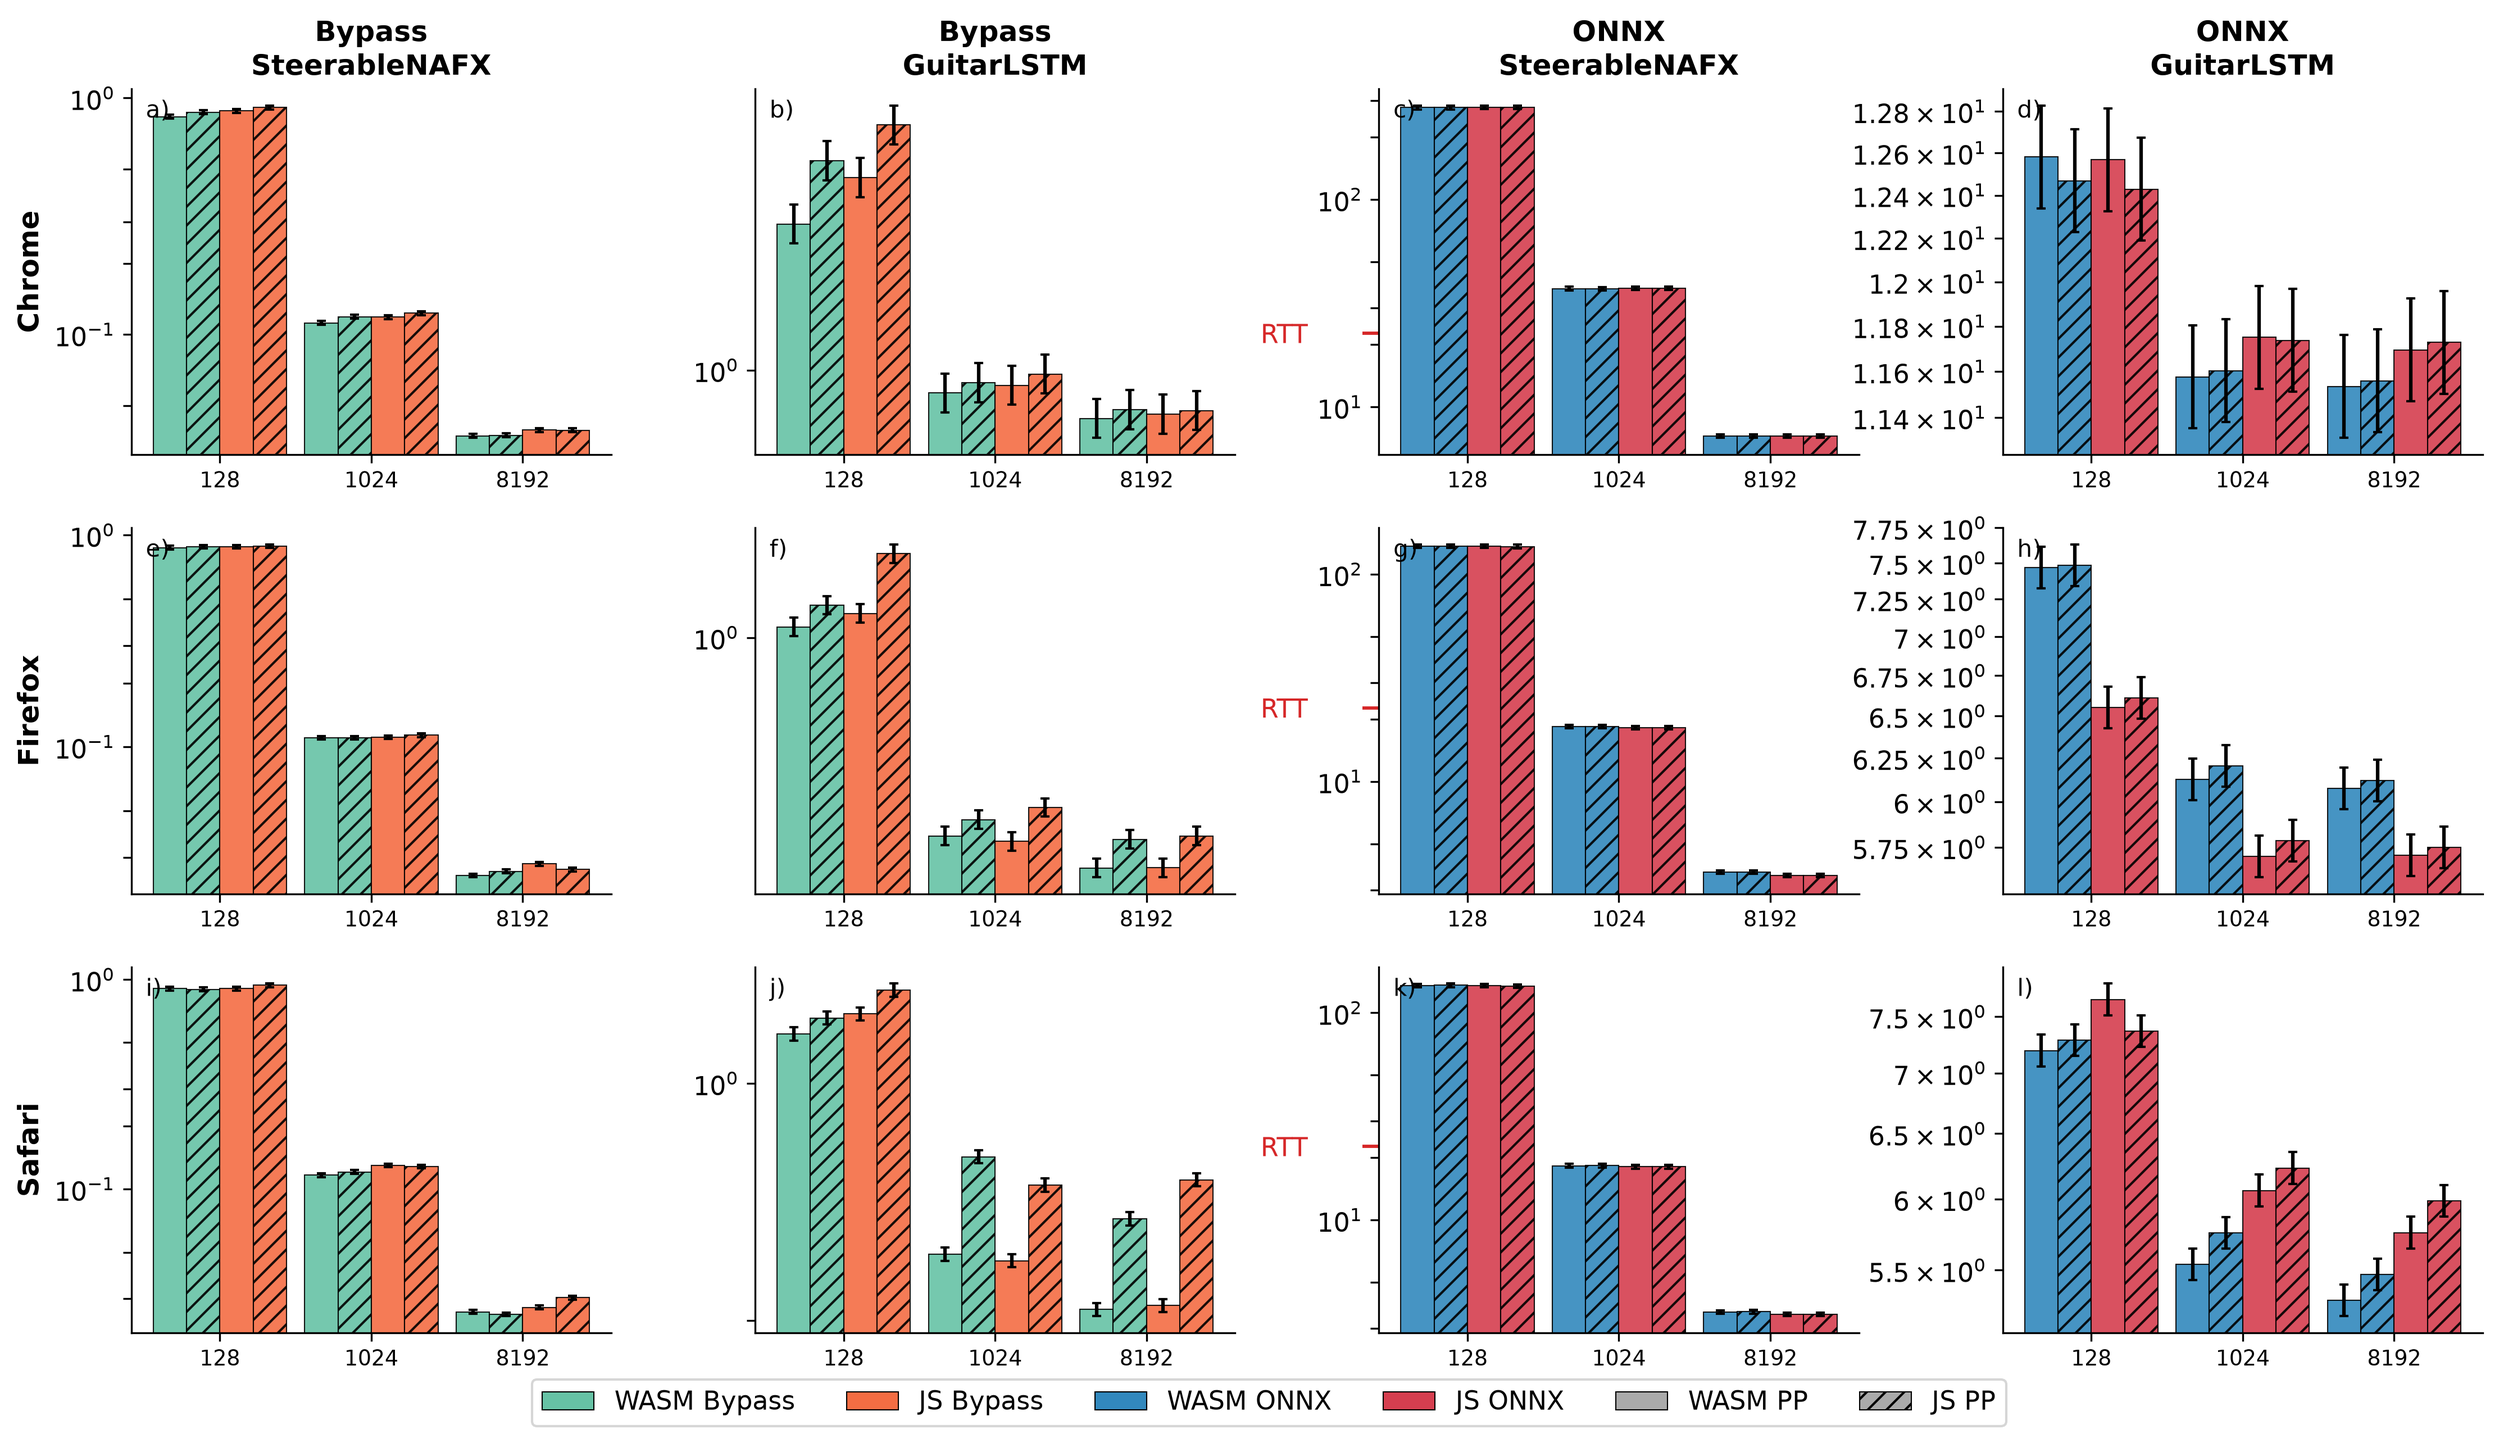
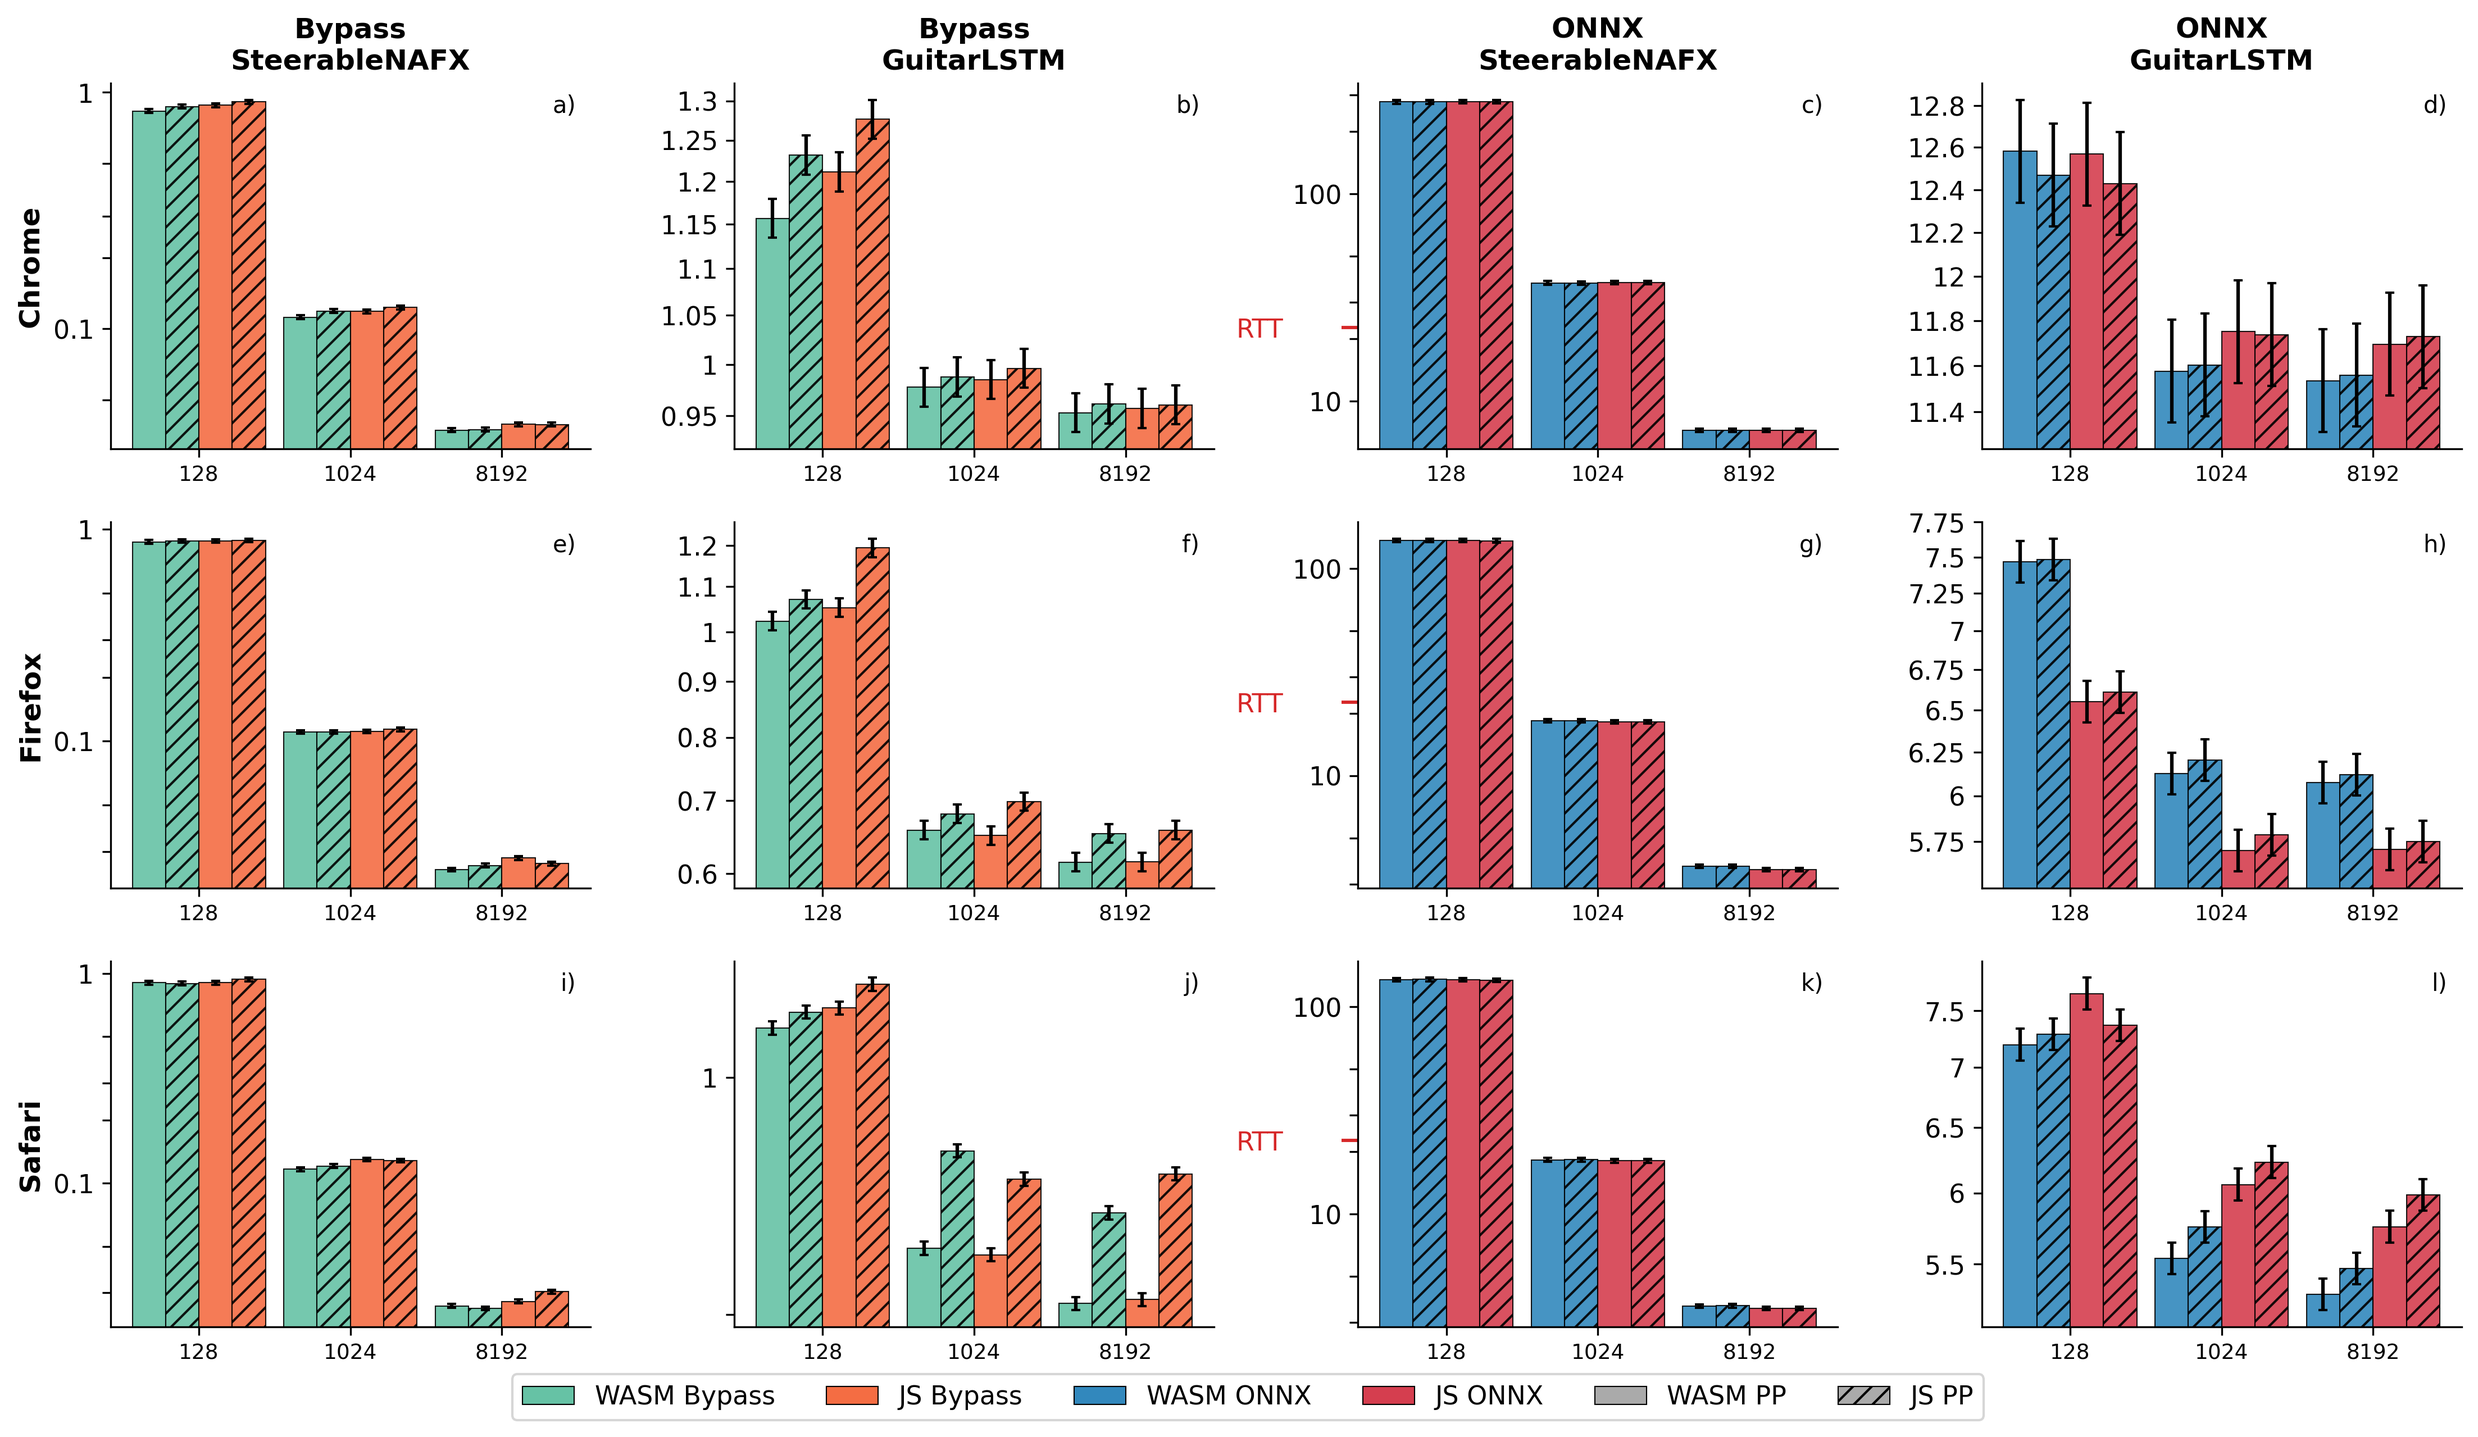
plots: move RQ3 panel letters top-right, plain log-axis labels
The 128-sample bars reached the top-left corner and hid the letters
c), g), i), k); the narrow-range panels labelled their ticks as
1.28 x 10^1. Regenerated results/50-1/out/rq3_overhead.png.

diff --git a/anira-web-r/source/commands/plots.py b/anira-web-r/source/commands/plots.py
@@ -54,6 +54,16 @@ RTT_TICK_LENGTH = 7
 RTT_LABEL_GAP_PT = 4
 
 
+class _PlainLogFormatter(ticker.LogFormatter):
+    """Log-axis labels as plain numbers (0.1, 1, 10, 12.8) instead of
+    scientific notation. Keeps LogFormatter's rule of labelling only the
+    decades when the axis spans more than one, which matters for panels whose
+    range is narrow enough for the locator to fall back to linear ticks."""
+
+    def _num_to_string(self, x, vmin, vmax):
+        return f"{x:g}"
+
+
 def _draw_rtt(ax):
     """Mark the RTT as a labelled minor tick on the y-axis.
 
@@ -362,12 +372,16 @@ def plot_rq3_overhead(results_dir, out_dir):
                         linewidth=0.5,
                     )
 
+                # Top right: RpS falls with buffer size, so the 8192 bars
+                # leave that corner free in every panel, whereas the 128
+                # bars reach the top-left corner.
                 letter = chr(97 + row_idx * n_plot_cols + global_col)
                 ax.text(
-                    0.03,
+                    0.97,
                     0.97,
                     f"{letter})",
                     transform=ax.transAxes,
+                    ha="right",
                     va="top",
                     fontsize=10,
                 )
@@ -387,9 +401,7 @@ def plot_rq3_overhead(results_dir, out_dir):
                 ax.yaxis.set_major_locator(
                     ticker.LogLocator(base=10, subs=[1, 2, 3, 5])
                 )
-                ax.yaxis.set_major_formatter(
-                    ticker.LogFormatterSciNotation(labelOnlyBase=False)
-                )
+                ax.yaxis.set_major_formatter(_PlainLogFormatter(labelOnlyBase=False))
                 # Replaces the log locator's unlabelled minor ticks; the tick
                 # only renders in panels whose range reaches the threshold.
                 _draw_rtt(ax)
